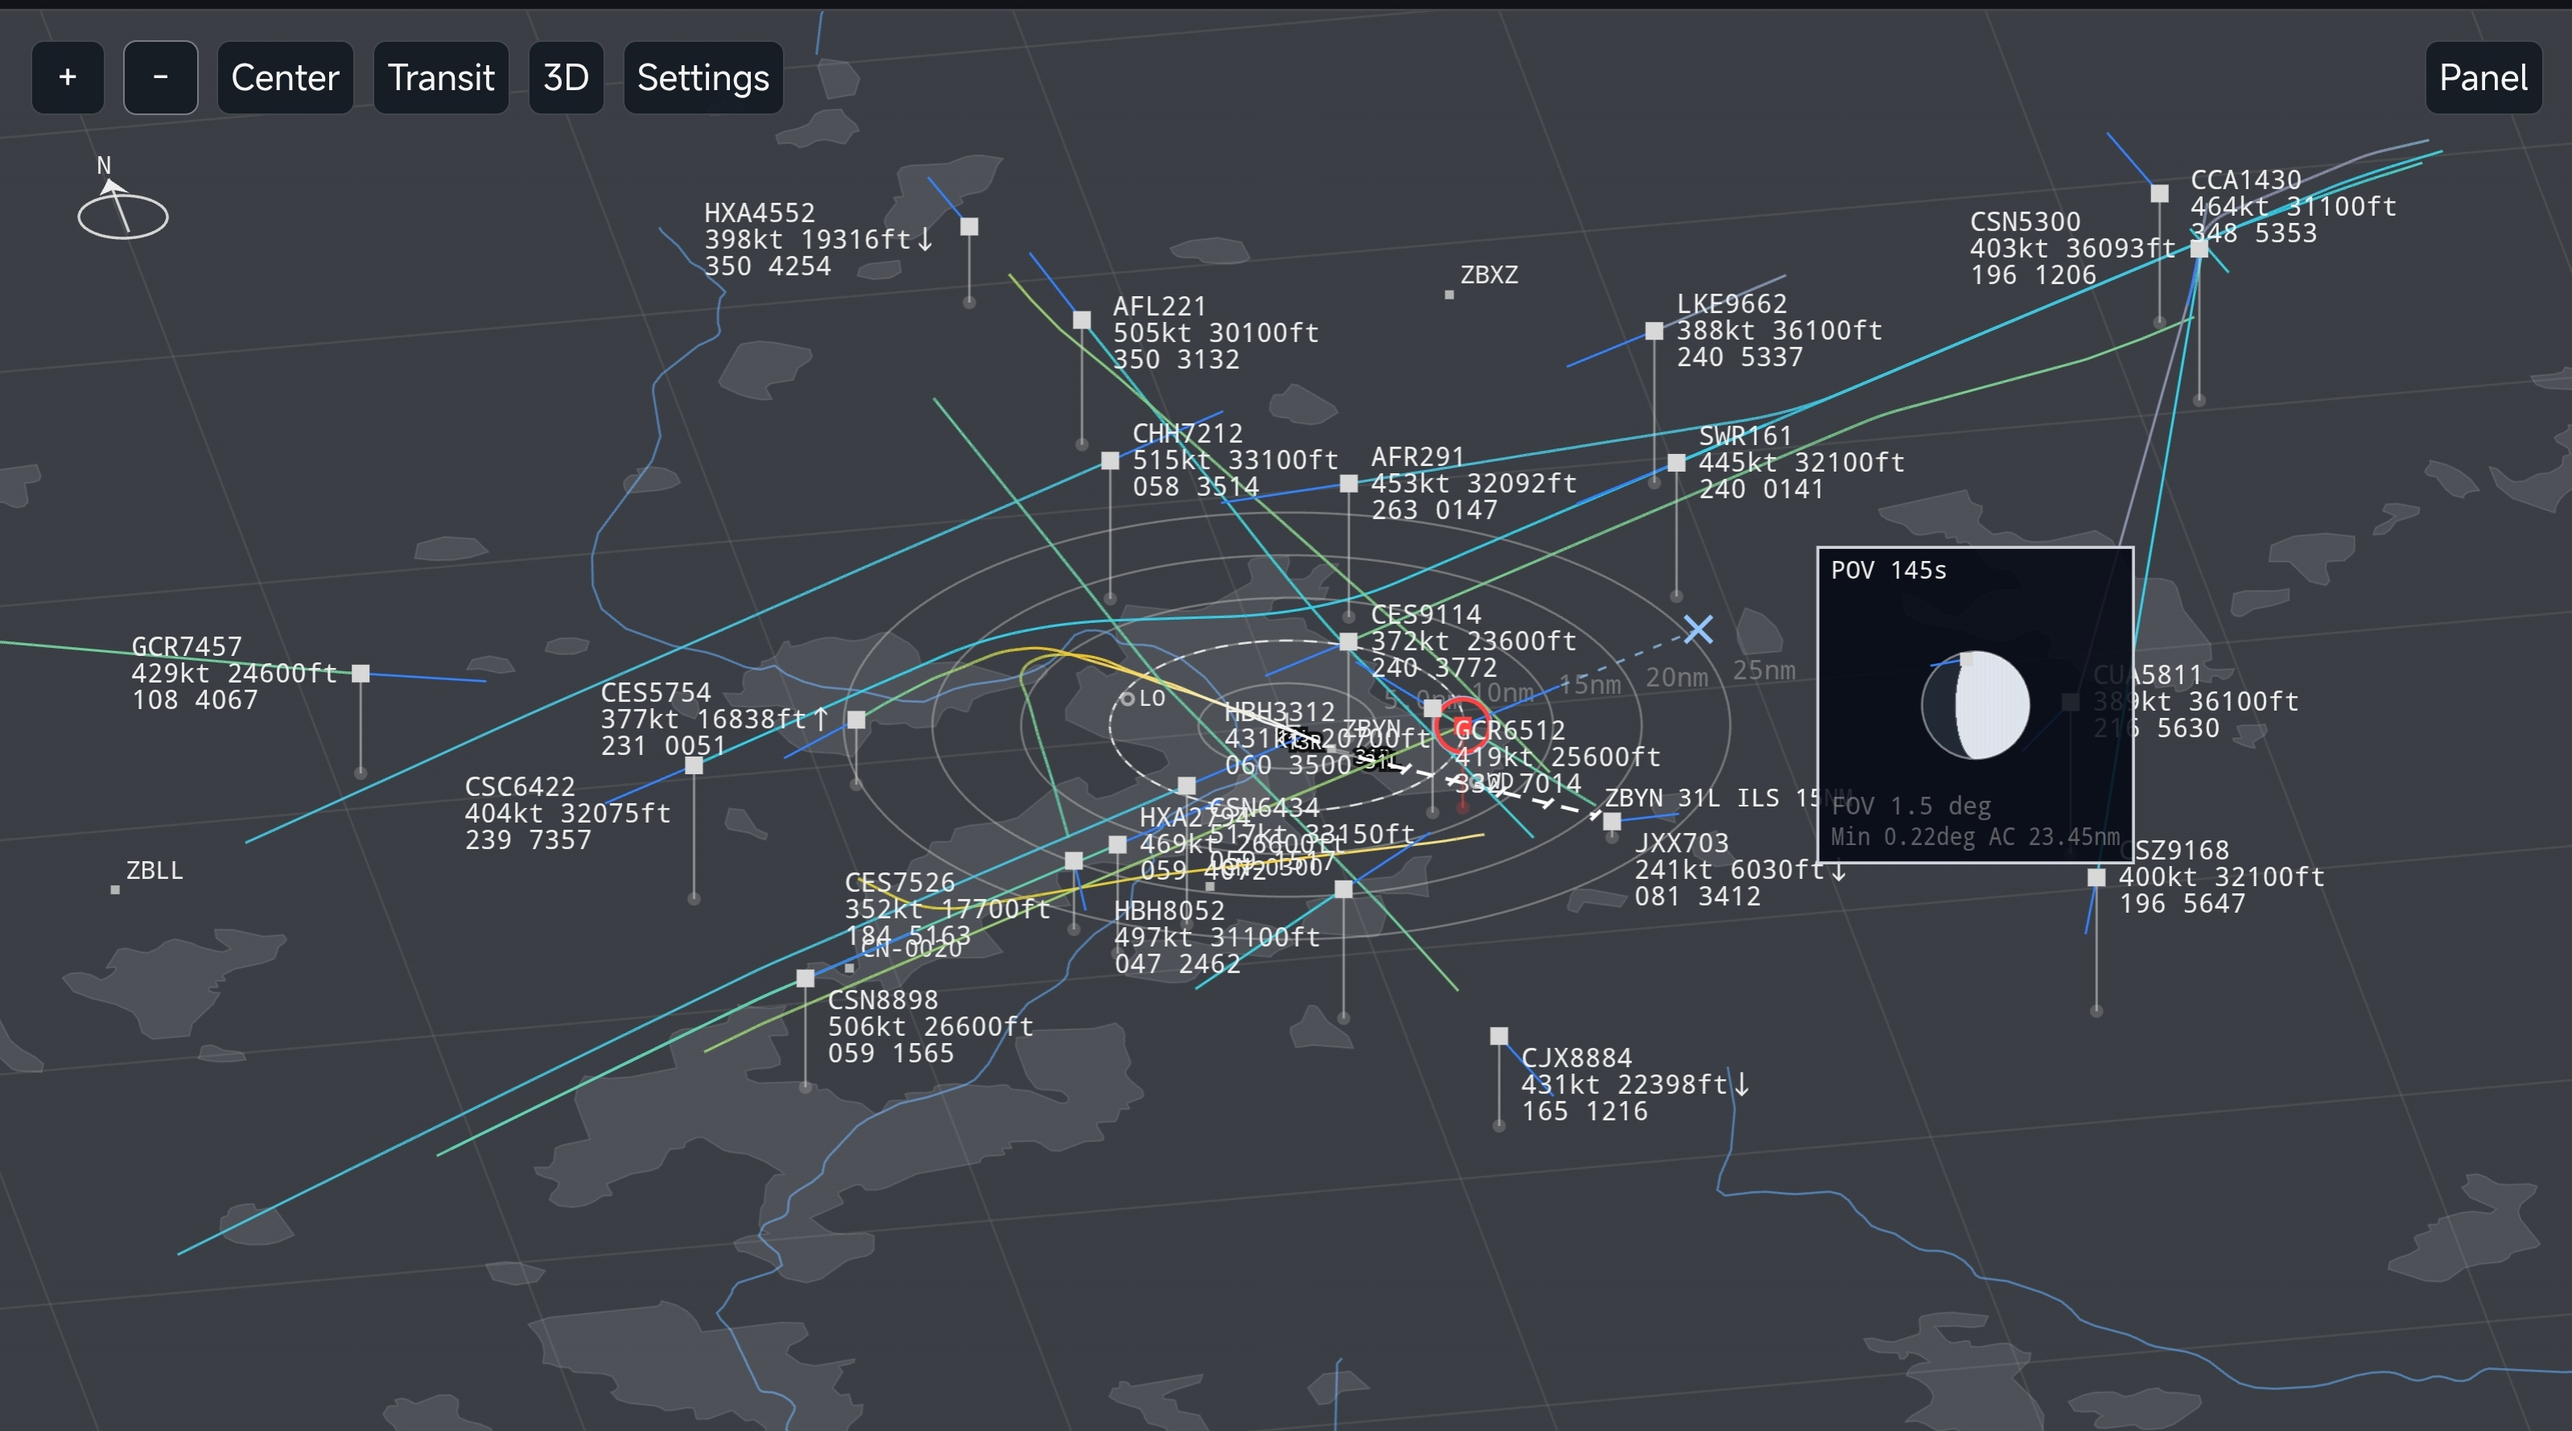
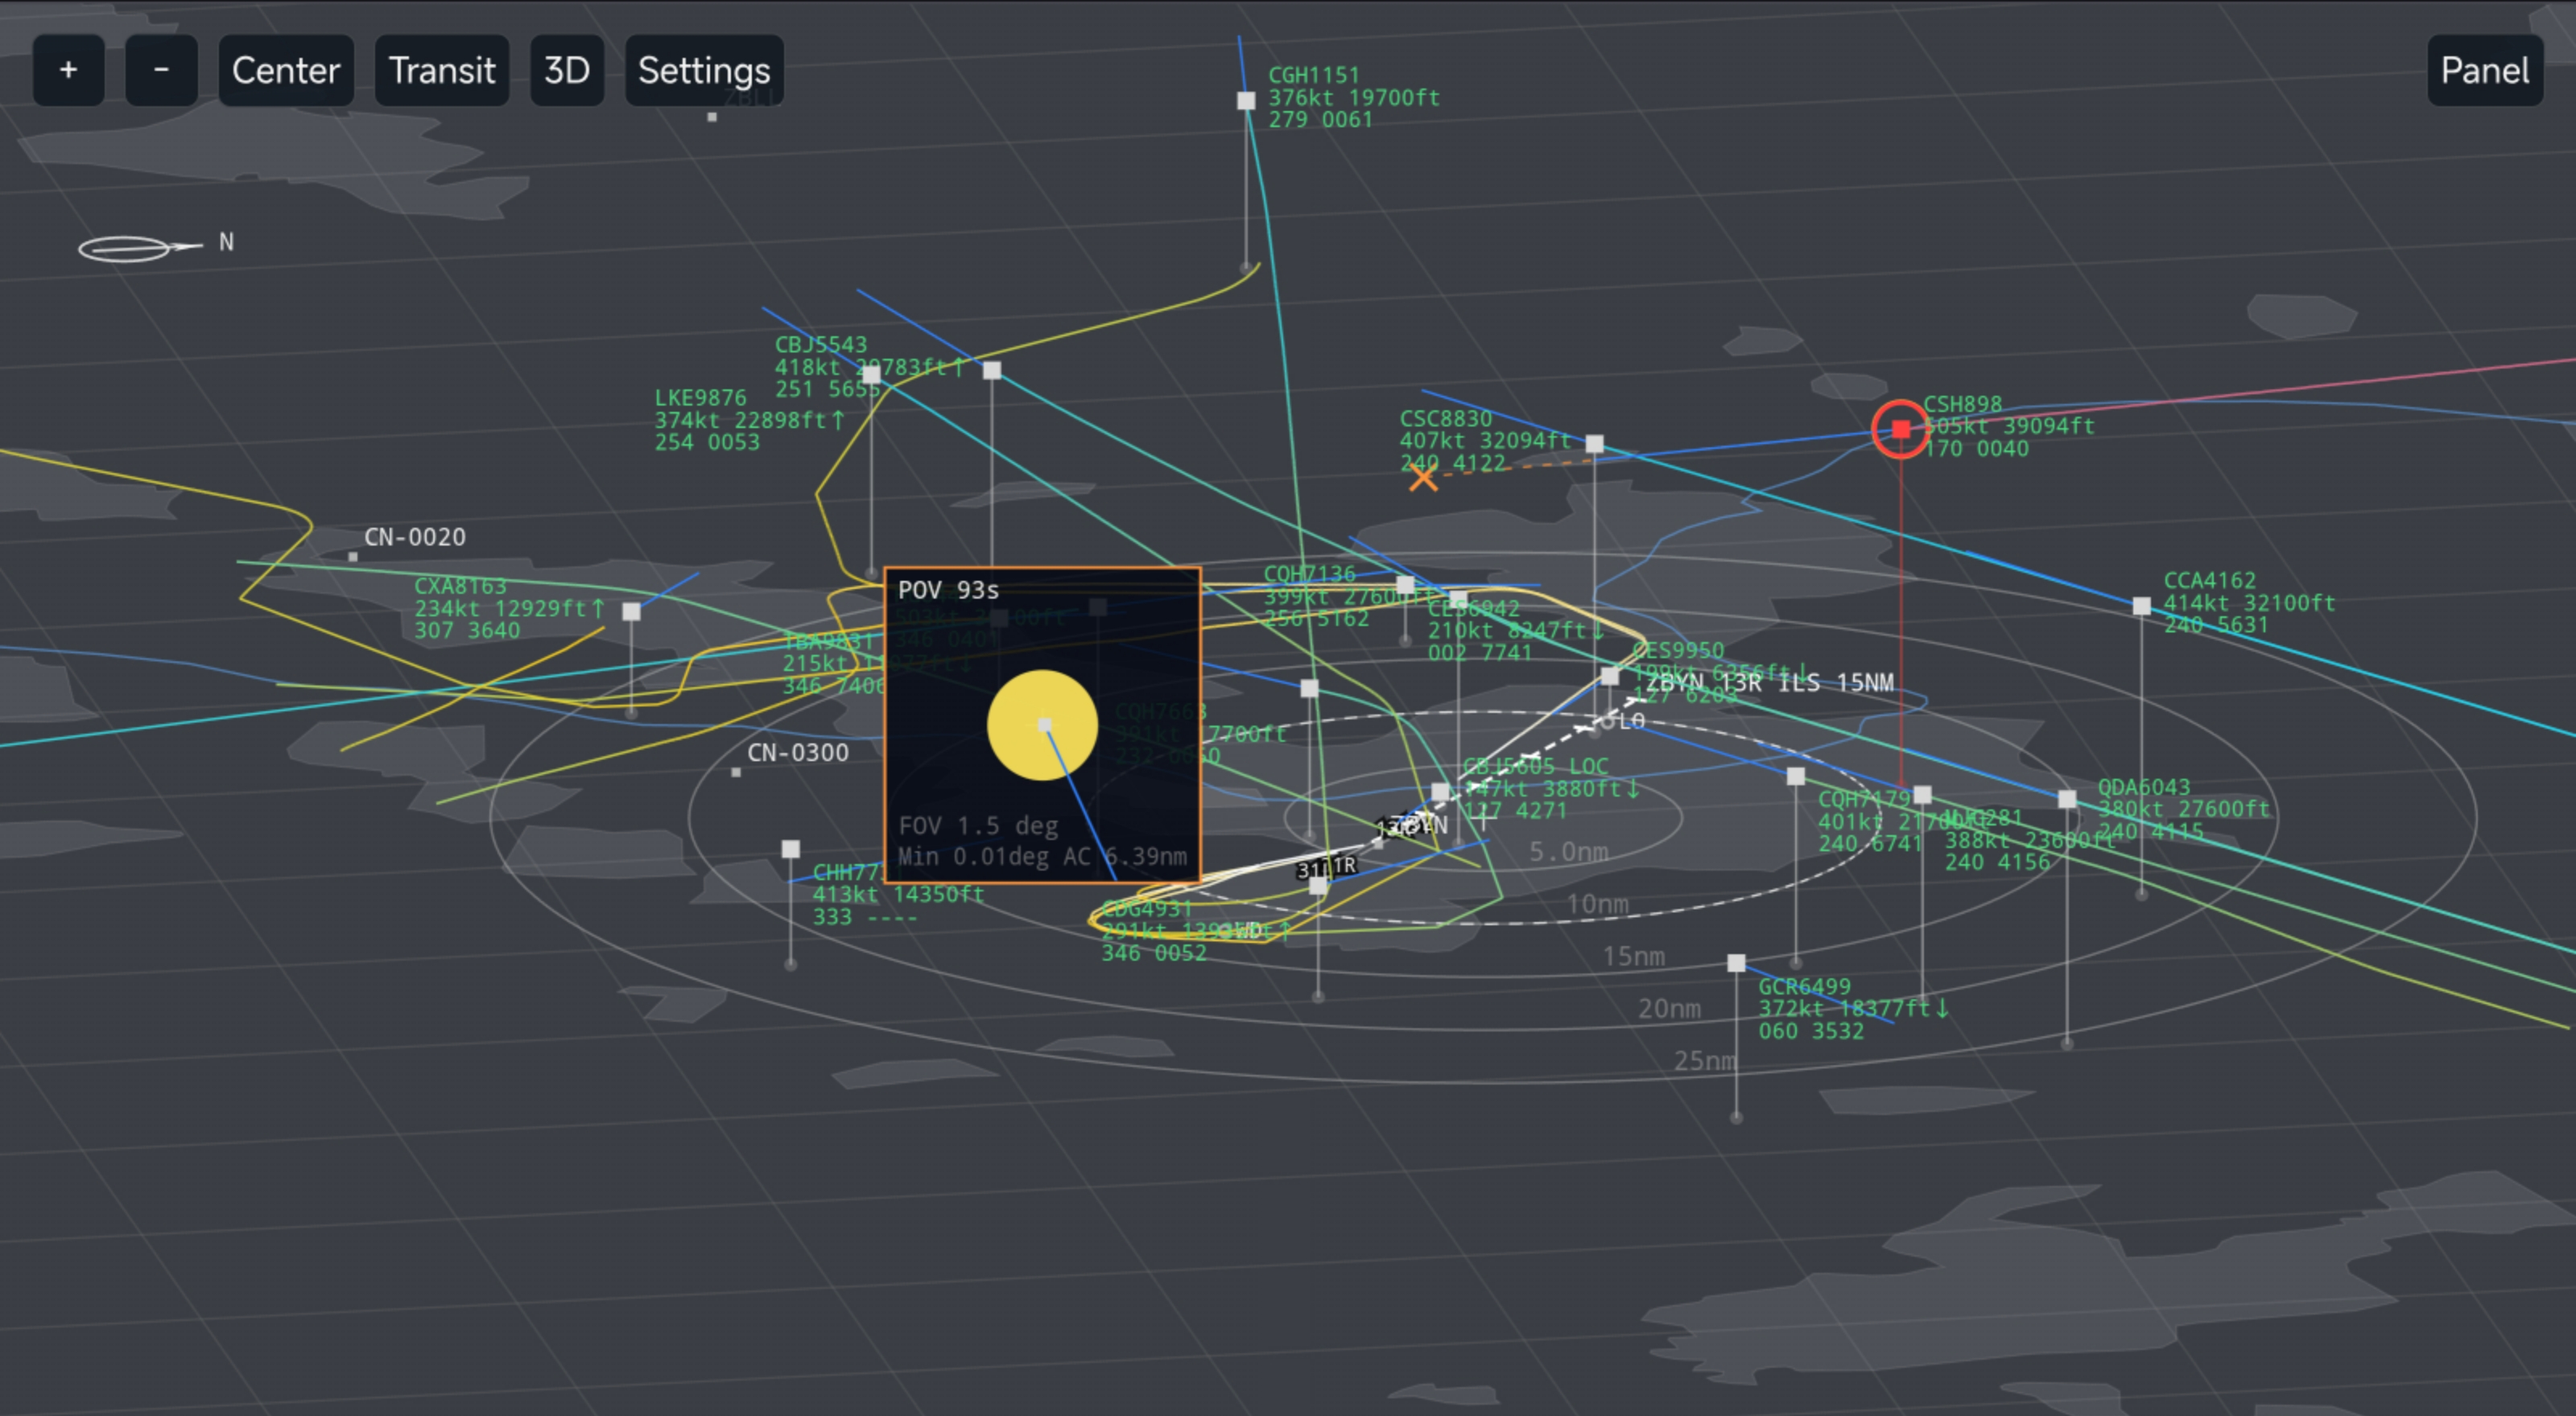
fix: remove duplicate screenshot, renumber S3-S4
Screenshot_5 and Screenshot_7 were identical. Removed the duplicate,
renamed Screenshot_8→7 and Screenshot_9→8, updated README sections.

diff --git a/README_LINUX_WEB.md b/README_LINUX_WEB.md
@@ -29,11 +29,8 @@ The older Windows desktop release remains available from previous GitHub Release
 ### S3: 3D View — Aircraft Transit
 ![S3 3D Transit](assets/Screenshot_7.jpg)
 
-### S4: 3D View — Aircraft Transit
+### S4: 3D View — Aircraft Close Encounter
 ![S4 3D Close](assets/Screenshot_8.jpg)
-
-### S5: 3D View — Aircraft close encounter
-![S5 3D Tilted](assets/Screenshot_9.jpg)
 
 ### Network Architecture
 ![Linux Web Architecture](assets/image-2-linux-web-architecture.svg)

diff --git a/README.md b/README.md
@@ -65,11 +65,8 @@ For release history, read [CHANGELOG.md](CHANGELOG.md).
 ### S3: 3D View — Aircraft Transit
 ![S3 3D Transit](assets/Screenshot_7.jpg)
 
-### S4: 3D View — Aircraft Transit
+### S4: 3D View — Aircraft Close Encounter
 ![S4 3D Close](assets/Screenshot_8.jpg)
-
-### S5: 3D View — Aircraft close encounter
-![S5 3D Tilted](assets/Screenshot_9.jpg)
 
 ### Linux/WSL Network Architecture
 ![Linux Web Architecture](assets/image-2-linux-web-architecture.svg)
